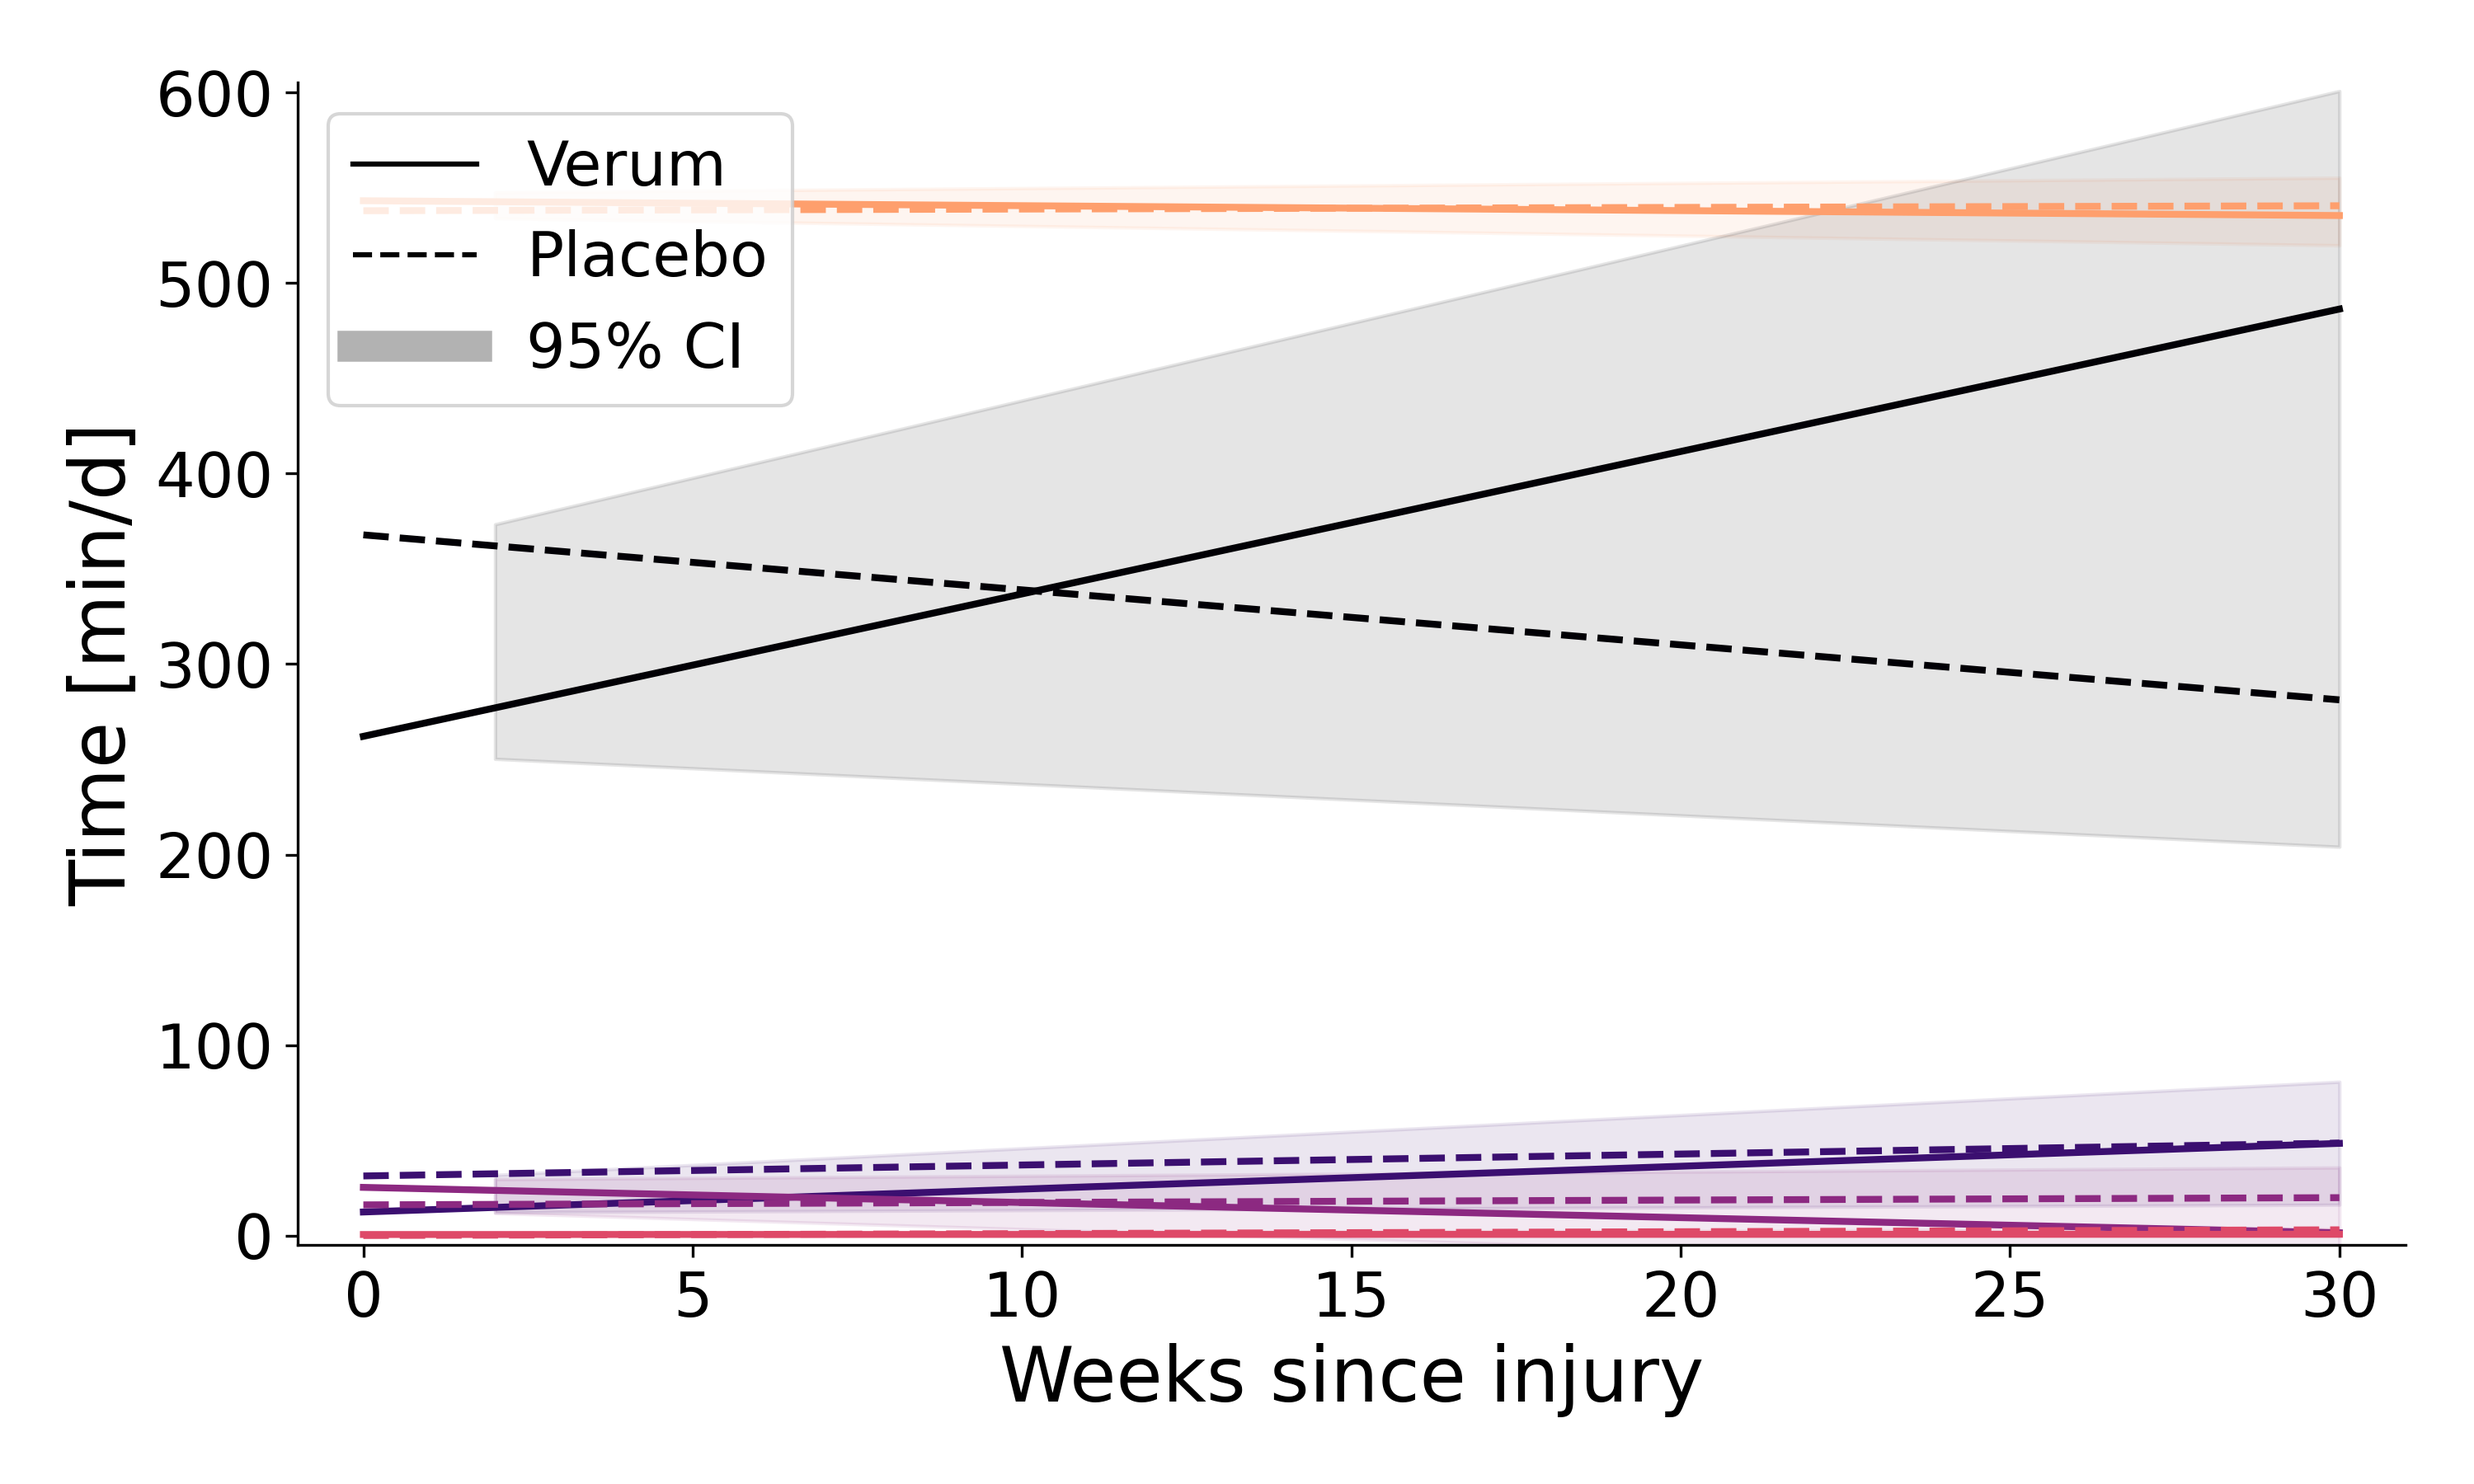
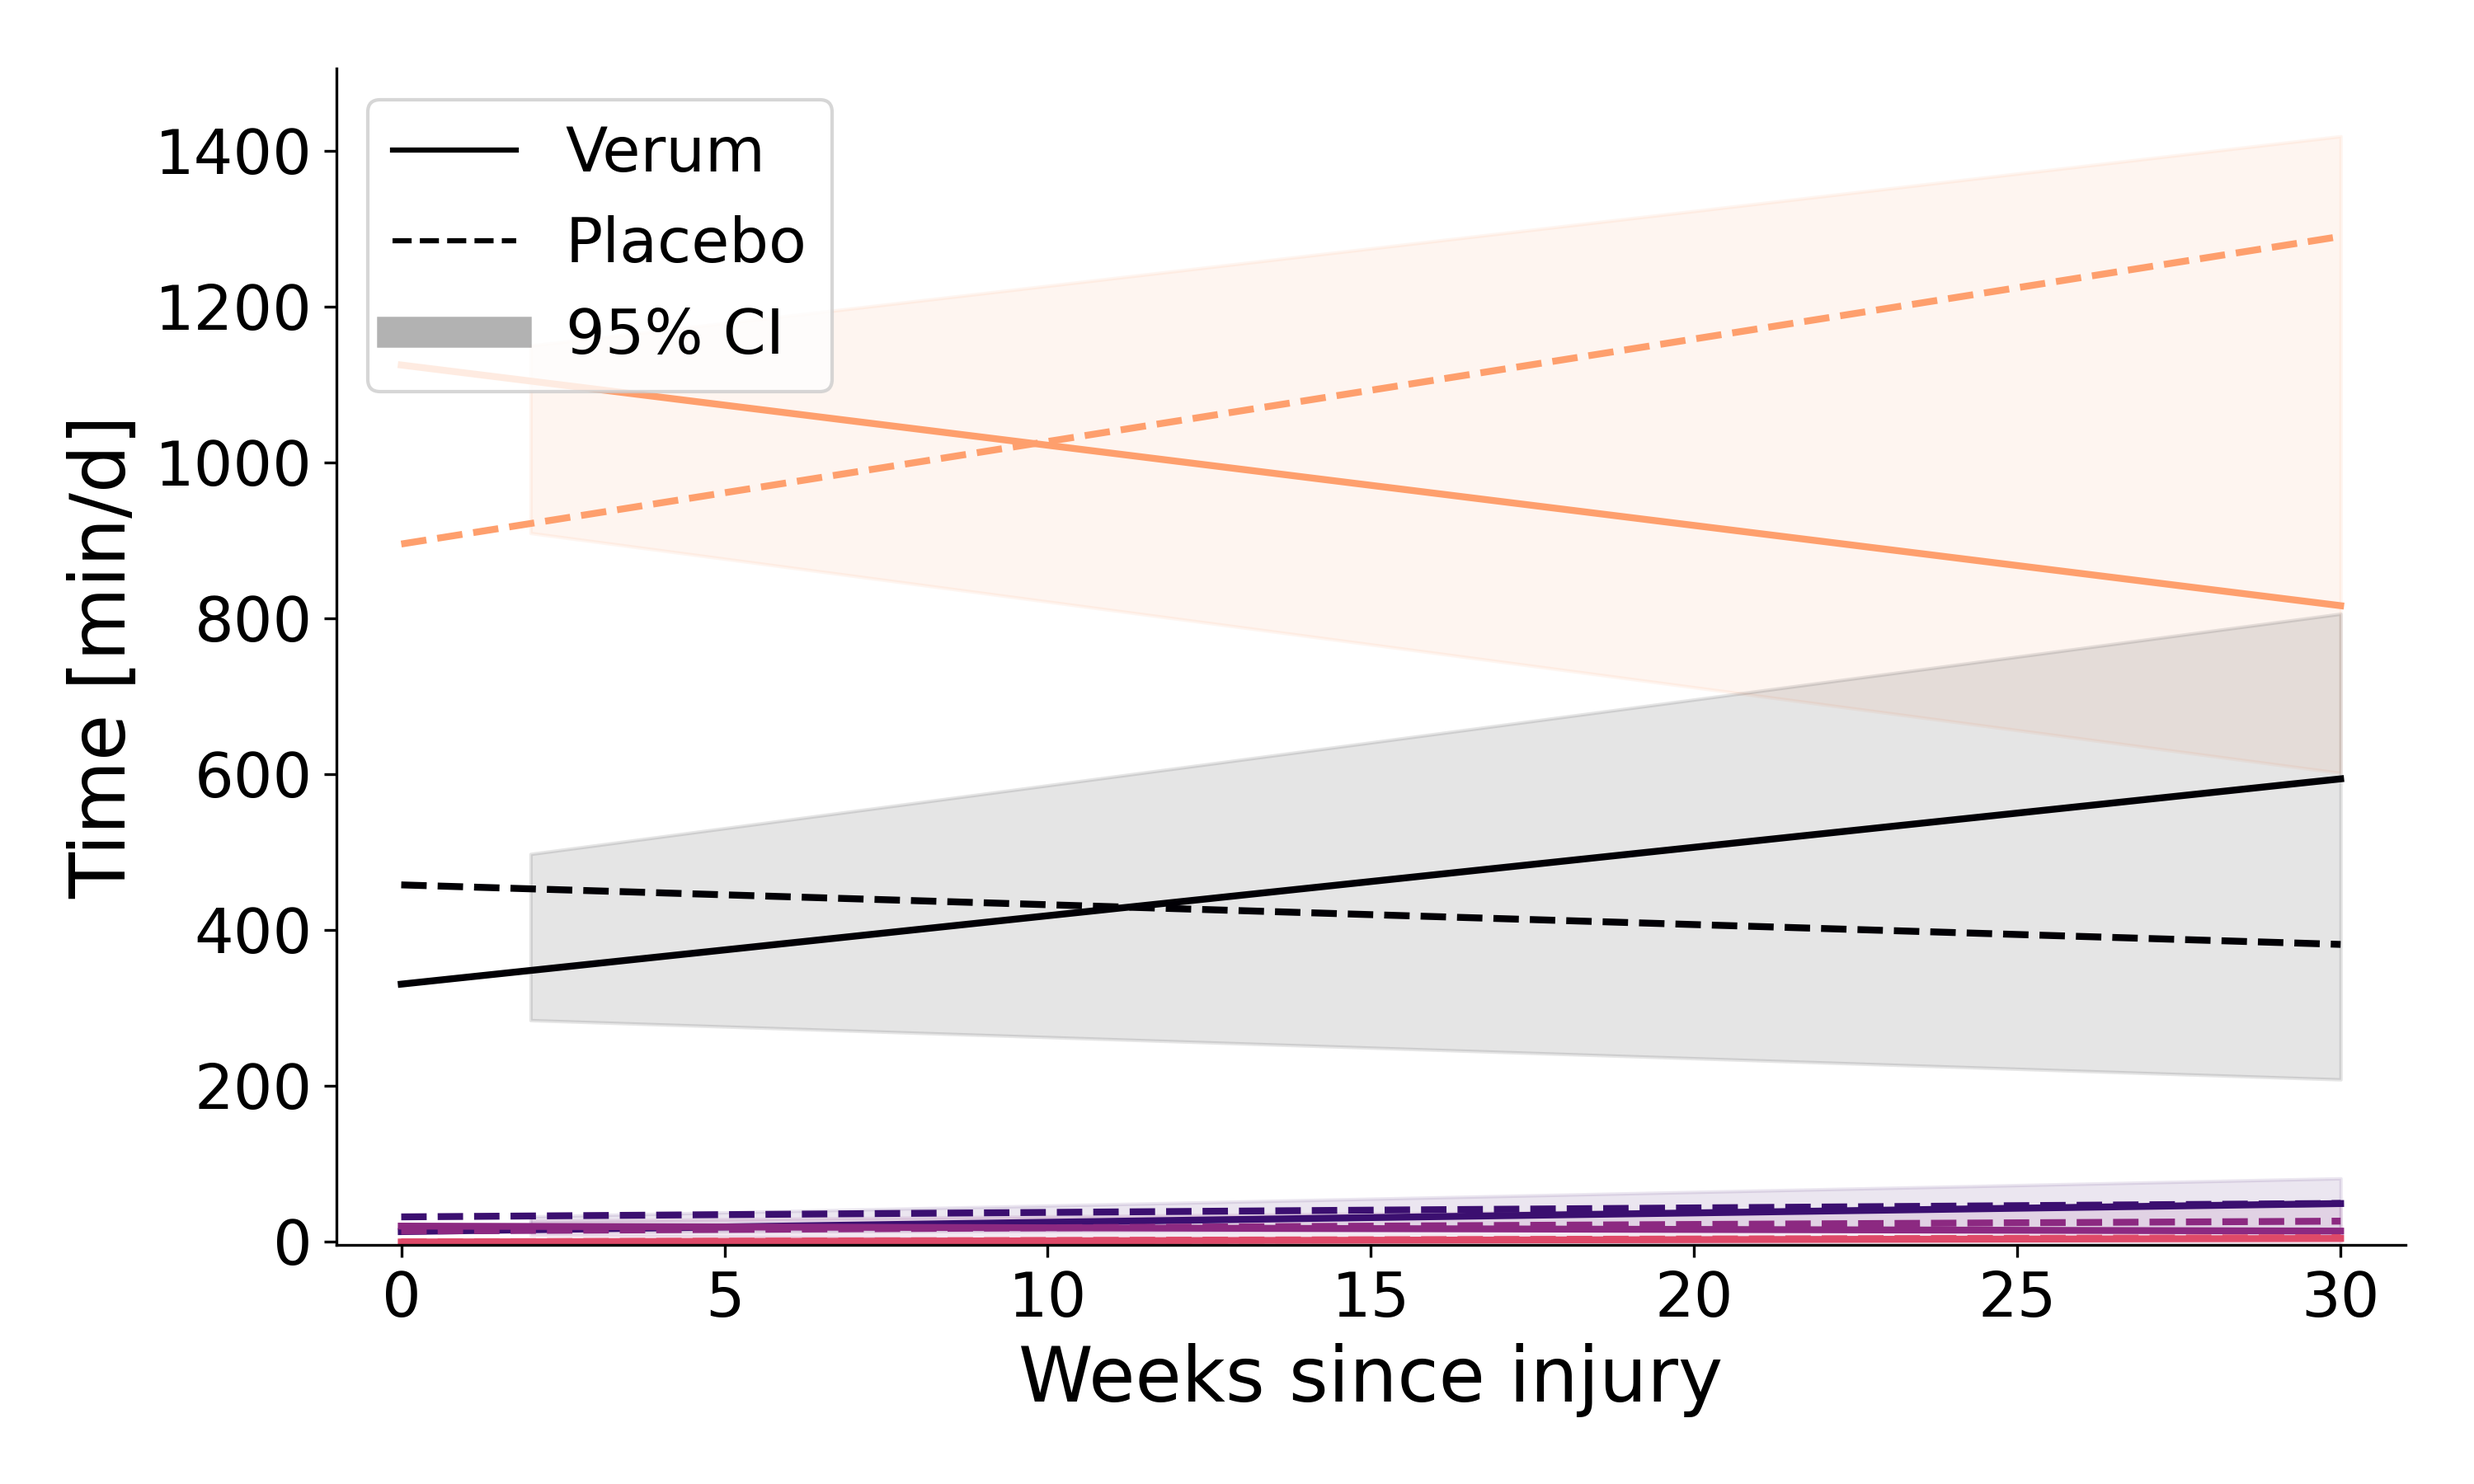
Activity Intensity

diff --git a/Code/StatisticalAnalysis_VerumPlacebo.py b/Code/StatisticalAnalysis_VerumPlacebo.py
@@ -286,7 +286,7 @@ plt.xticks(fontsize=18)
 plt.yticks(fontsize=18)
 plt.legend(fontsize=18, loc='upper left')
 plt.tight_layout(pad=2.0)
-plt.ylim(-5, 605)
+plt.ylim(-5, 1505)
 plt.xlim(-1, 31)
 plt.grid()
 plt.savefig(directory + '/Figures/Intensity_Trends.png', dpi=300)
@@ -369,7 +369,7 @@ plt.ylabel('Time [min/d]', fontsize=22)
 plt.xticks(fontsize=18)
 plt.yticks(fontsize=18)
 plt.grid()
-plt.ylim(-5, 605)
+plt.ylim(-5, 1505)
 plt.xlim(-1, 31)
 plt.tight_layout(pad=2.0)
 plt.savefig(directory + '/Figures/Intensities_VerumPlacebo.png', dpi=300)
